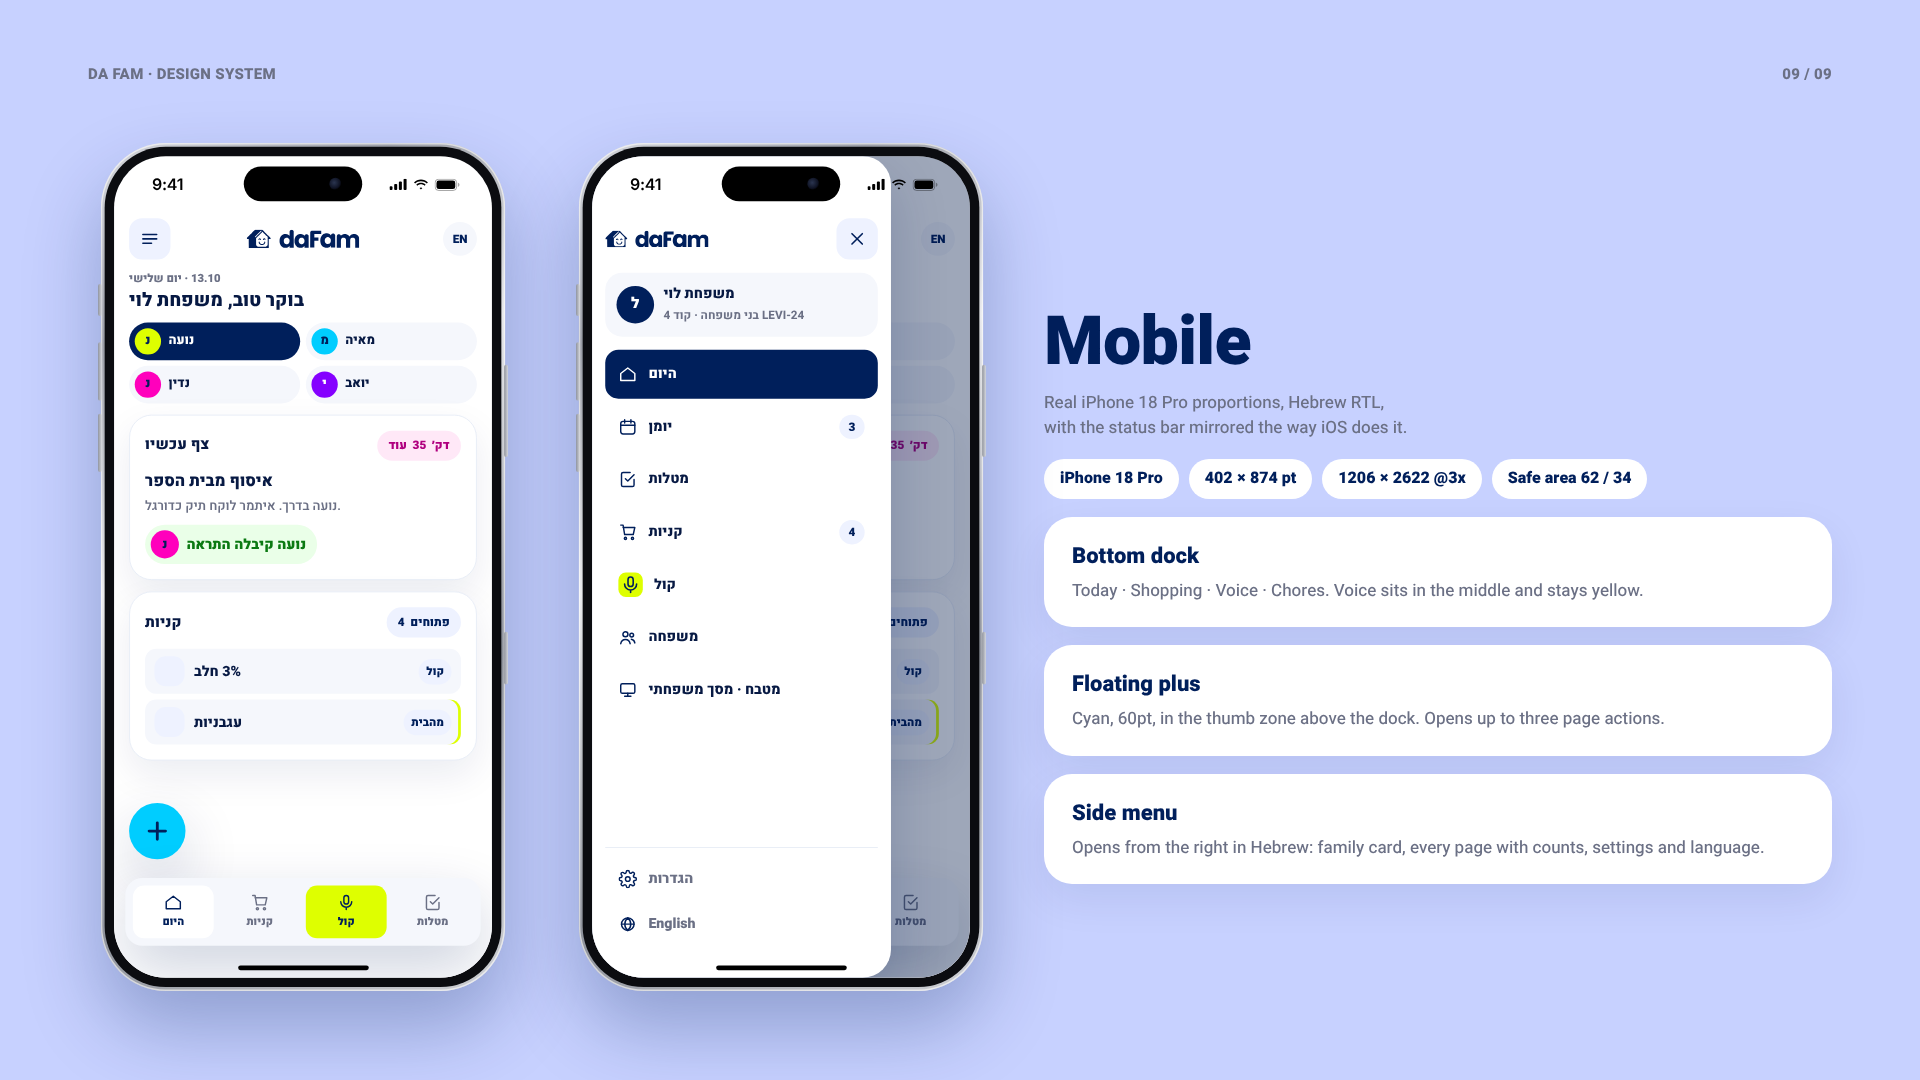
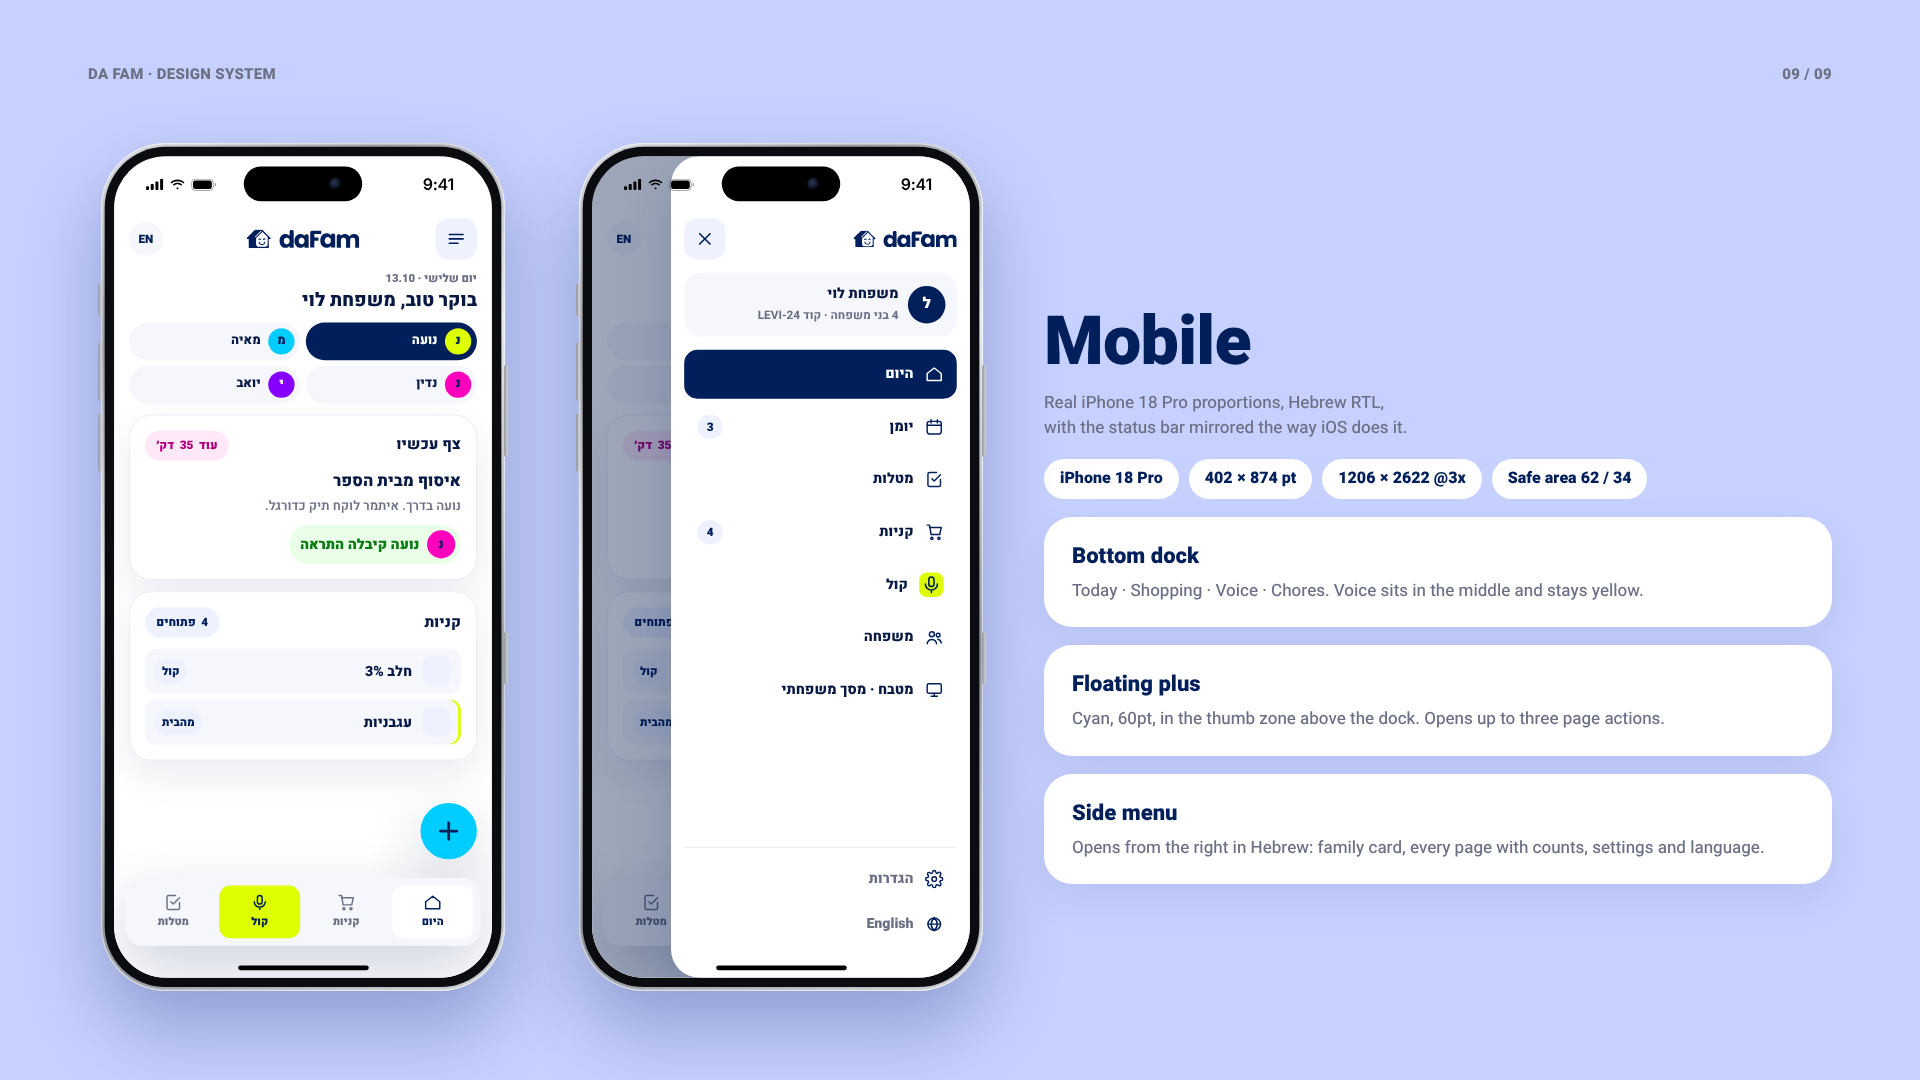
Keep the iPhone mockup right-to-left everywhere
Claude-Session: https://claude.ai/code/session_015HjVAQGQ5FAg6r4JJ5mHqw

diff --git a/index.html b/index.html
@@ -224,7 +224,7 @@ svg.ic{width:20px;height:20px;display:block;fill:none;stroke:currentColor;stroke
 .iphone .b-power{right:-3px;top:236px;height:98px}
 .iphone .b-cam{right:-3px;top:520px;height:56px;border-radius:3px}
 .ios{position:relative;width:402px;height:874px;border-radius:55px;overflow:hidden;background:var(--surface);
-  font-family:var(--font-sans);direction:inherit}
+  font-family:var(--font-sans);direction:rtl;text-align:right}
 /* status bar: 54pt; iOS mirrors it in RTL (time on the right in Hebrew) */
 .ios-status{position:absolute;inset-inline:0;top:0;height:54px;z-index:9;display:flex;align-items:center;justify-content:space-between;padding-inline:34px 30px;padding-top:6px;color:#000}
 [dir="rtl"] .ios-status{padding-inline:30px 34px}
